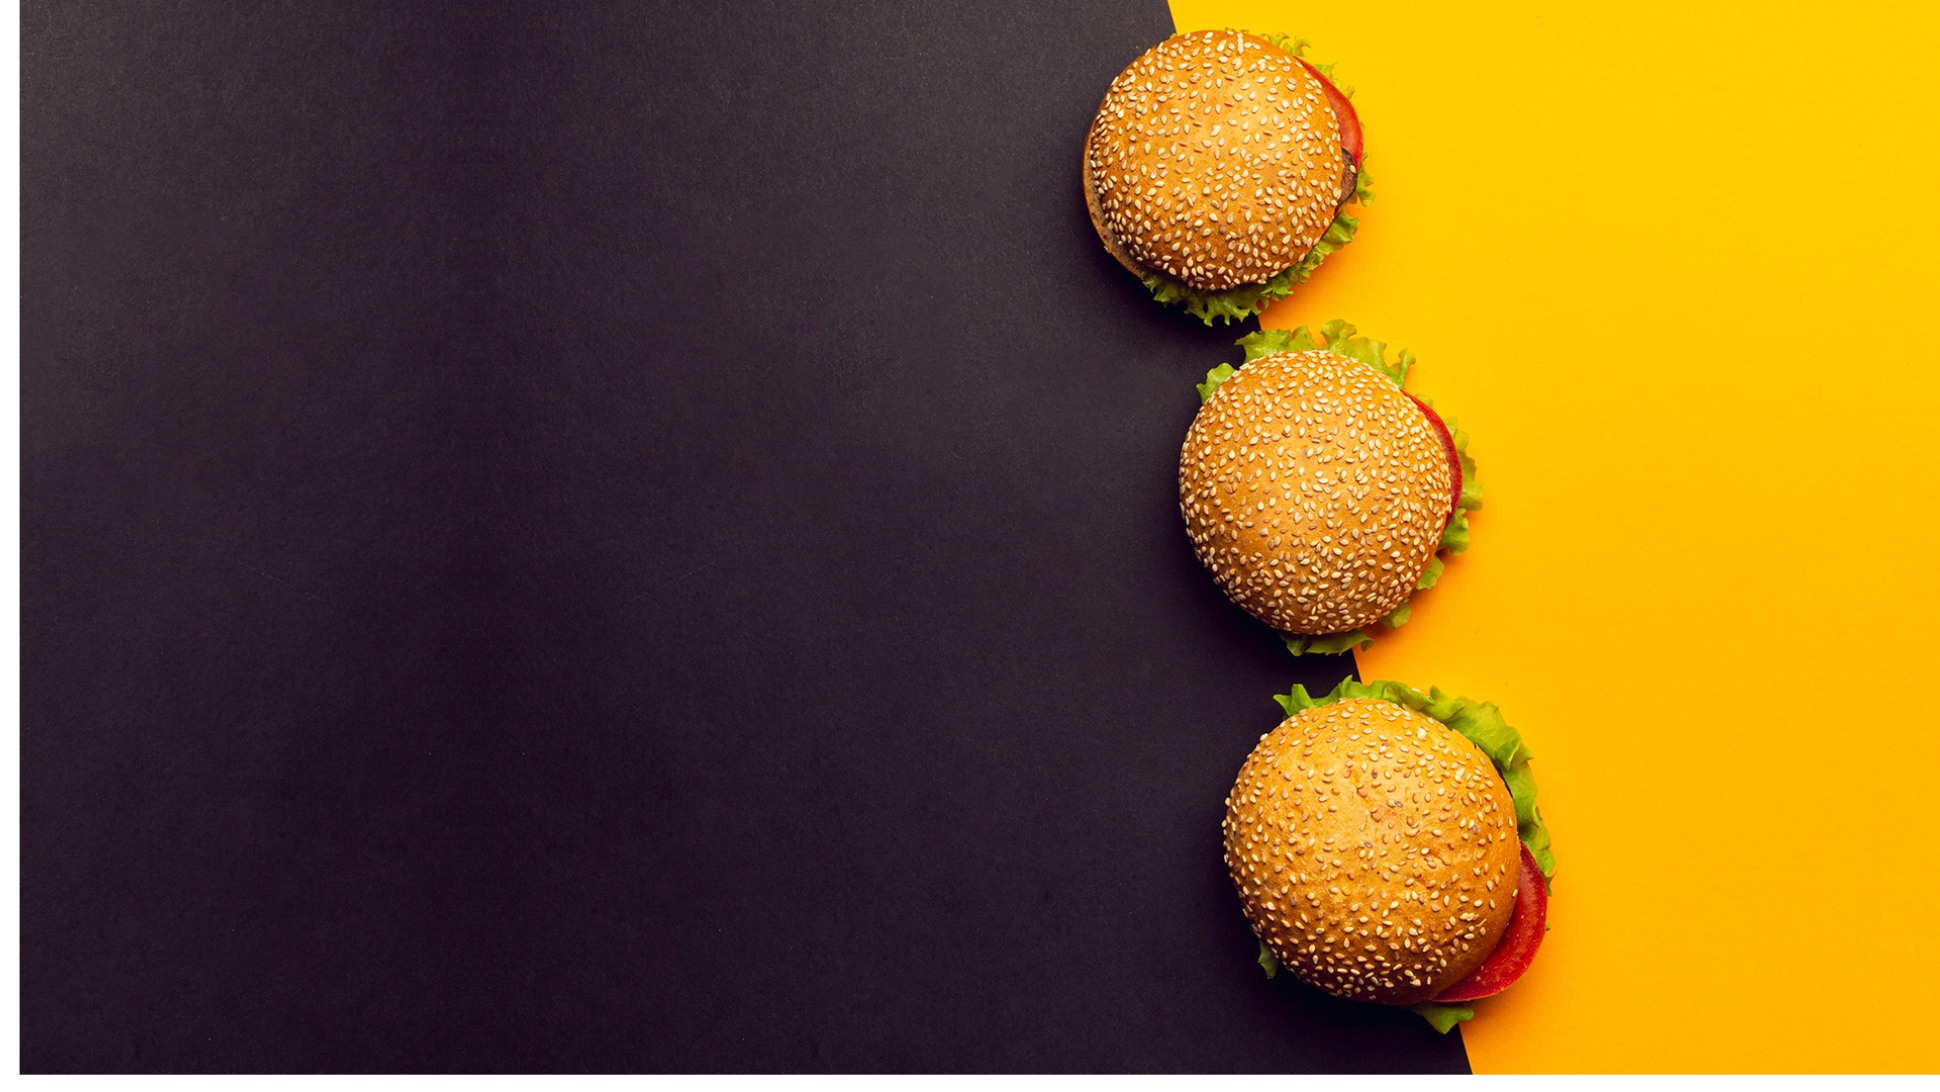
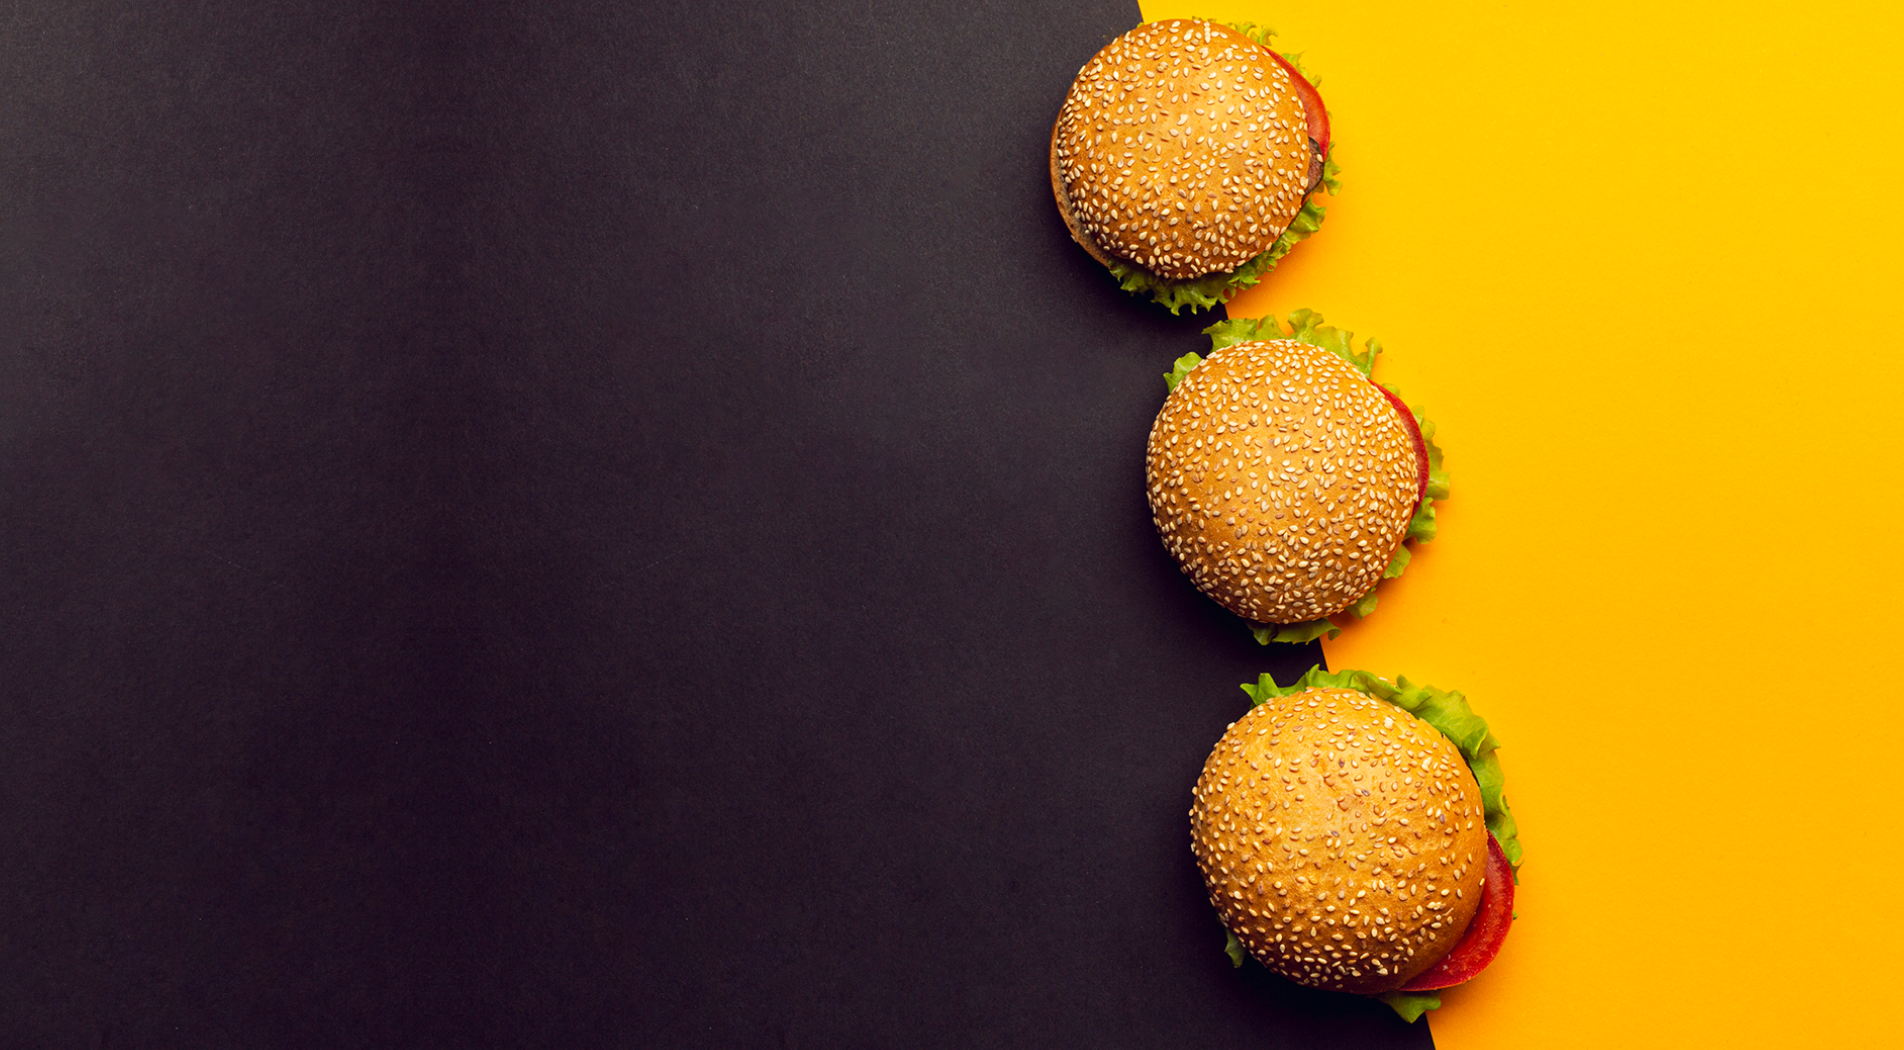
header

Changed region(s): [[0.0, 0.0, 1.0, 1.0]]

diff --git a/style/style.css b/style/style.css
@@ -7,3 +7,90 @@
     overflow: hidden;
     height: 100%;
 }
+
+.logo-nav {
+    display: flex;
+    justify-content: space-between;
+    padding-top: 40px;
+}
+
+.nav-list {
+    display: flex;
+    width: 563px;
+    justify-content: space-evenly;
+}
+
+.nav-link {
+    font-family: 'Montserrat';
+    font-size: 16px;
+    font-weight: 400;
+    text-transform: capitalize;
+    color: #FFFFFF;
+
+}
+
+.header {
+    width: 100%;
+    background-image: url(../images/cover-bg.png);
+    background-repeat: no-repeat;
+    background-size: cover;
+    padding-bottom: 323px;
+}
+
+.titles {
+    display: flex;
+    flex-direction: column;
+    align-items: flex-start;
+}
+
+.title {
+    margin-top: 118px;
+    font-family: 'Avengeance Mightiest Avenger';
+    font-size: 96px;
+    font-weight: 400;
+    color: #FFFFFF;
+    text-transform: capitalize;
+}
+
+.subtitle {
+    margin-top: 118px;
+    margin-bottom: 62px;
+    font-family: 'Montserrat';
+    font-weight: 800;
+    font-size: 30px;
+    color: #FFFFFF;
+    max-width: 371px;
+}
+
+.button {
+    display: flex;
+
+}
+
+.orderbutton {
+    font-family: 'Avengeance Mightiest Avenger';
+    font-size: 16px;
+    font-weight: 400;
+    text-transform: capitalize;
+    color: #A80E0E;
+    background-color: #FFAA00;
+    padding-top: 16px;
+    padding-bottom: 16px;
+    padding-left: 60px;
+    padding-right: 60px;
+    border-radius: 90px;
+
+}
+
+
+/* hover */
+
+.nav-link:hover {
+    font-size: 25px;
+    color: black;
+    font-weight: 700;
+}
+
+.orderbutton:hover {
+    font-size: 20px;
+}

diff --git a/index.html b/index.html
@@ -18,6 +18,29 @@
 </head>
 
 <body>
+    <div class="wraper">
+        <header class="header">
+            <div class="logo-nav box">
+                <a href="index.html" class="logo"> <img src="images/logo.png" alt="burgerlogo"></a>
+                <nav class="nav">
+                    <ul class="nav-list">
+                        <li class="nav-item"> <a href="index.html" class="nav-link">Home</a> </li>
+                        <li class="nav-item"> <a href="#" class="nav-link">menu</a> </li>
+                        <li class="nav-item"> <a href="#" class="nav-link">gallery</a></li>
+                        <li class="nav-item"> <a href="#" class="nav-link">terminals</a></li>
+                        <li class="nav-item"> <a href="#" class="nav-link">contact us</a></li>
+                    </ul>
+                </nav>
+            </div>
+            <div class="titles box">
+                <h1 class="title"> Party Time!</h1>
+                <p class="subtitle"> Buy any 2 burgers and get 1.5L Pepsi Free</p>
+                <div class="button"> <a class="orderbutton" href="index.html"> order now <i
+                            class="fa-solid fa-arrow-right"></i></a></div>
+            </div>
+        </header>
+    </div>
+
 
 </body>
 
